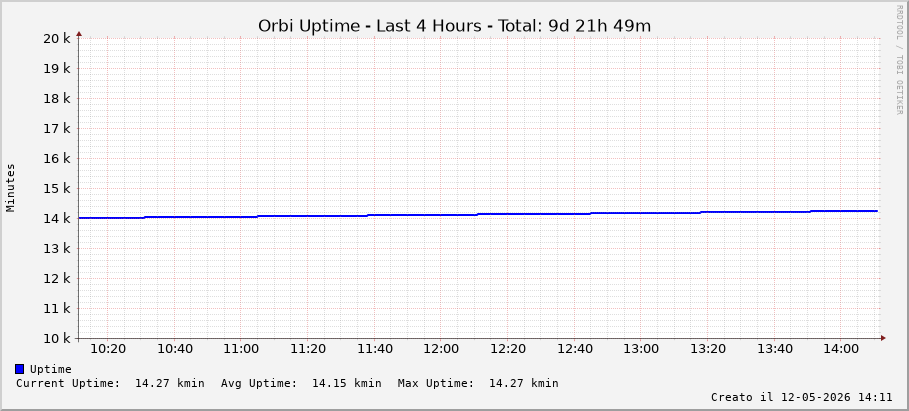
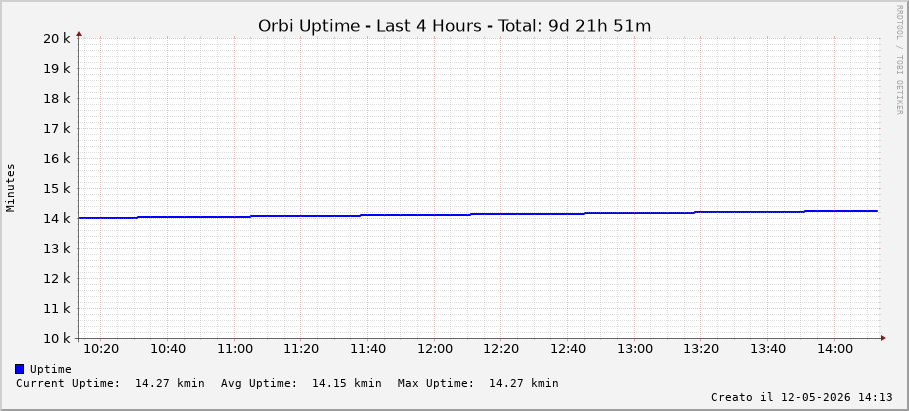
RBR50 update 2026-05-12 14:14:02

diff --git a/index.html b/index.html
@@ -41,38 +41,38 @@
 
 <div class="graph-container">
     <h2>Ultime 4 Ore</h2>
-    <img class="graph" src="images/orbi_traffic_1h.png?v=1778587921" alt="Traffico Ultima Ora">
-    <img class="graph" src="images/orbi_uptime_1h.png?v=1778587921" alt="Uptime Ultima Ora">
+    <img class="graph" src="images/orbi_traffic_1h.png?v=1778588042" alt="Traffico Ultima Ora">
+    <img class="graph" src="images/orbi_uptime_1h.png?v=1778588042" alt="Uptime Ultima Ora">
 </div>
 
 <div class="graph-container">
     <h2>Ultimo Giorno</h2>
-    <img class="graph" src="images/orbi_traffic_1d.png?v=1778587921" alt="Traffico Ultimo Giorno">
-    <img class="graph" src="images/orbi_uptime_1d.png?v=1778587921" alt="Uptime Ultimo Giorno">
+    <img class="graph" src="images/orbi_traffic_1d.png?v=1778588042" alt="Traffico Ultimo Giorno">
+    <img class="graph" src="images/orbi_uptime_1d.png?v=1778588042" alt="Uptime Ultimo Giorno">
 </div>
 
 <div class="graph-container">
     <h2>Ultima Settimana</h2>
-    <img class="graph" src="images/orbi_traffic_1w.png?v=1778587921" alt="Traffico Ultima Settimana">
-    <img class="graph" src="images/orbi_uptime_1w.png?v=1778587921" alt="Uptime Ultima Settimana">
+    <img class="graph" src="images/orbi_traffic_1w.png?v=1778588042" alt="Traffico Ultima Settimana">
+    <img class="graph" src="images/orbi_uptime_1w.png?v=1778588042" alt="Uptime Ultima Settimana">
 </div>
 
 <div class="graph-container">
     <h2>Ultimo Mese</h2>
-    <img class="graph" src="images/orbi_traffic_1m.png?v=1778587921" alt="Traffico Ultimo Mese">
-    <img class="graph" src="images/orbi_uptime_1m.png?v=1778587921" alt="Uptime Ultimo Mese">
+    <img class="graph" src="images/orbi_traffic_1m.png?v=1778588042" alt="Traffico Ultimo Mese">
+    <img class="graph" src="images/orbi_uptime_1m.png?v=1778588042" alt="Uptime Ultimo Mese">
 </div>
 
 <div class="graph-container">
     <h2>Ultimo Anno</h2>
-    <img class="graph" src="images/orbi_traffic_1y.png?v=1778587921" alt="Traffico Ultimo Anno">
-    <img class="graph" src="images/orbi_uptime_1y.png?v=1778587921" alt="Uptime Ultimo Anno">
+    <img class="graph" src="images/orbi_traffic_1y.png?v=1778588042" alt="Traffico Ultimo Anno">
+    <img class="graph" src="images/orbi_uptime_1y.png?v=1778588042" alt="Uptime Ultimo Anno">
 </div>
 
 <div class="graph-container">
     <h2>Ultimi 5 Anni</h2>
-    <img class="graph" src="images/orbi_traffic_5y.png?v=1778587921" alt="Traffico Ultimi 5 Anni">
-    <img class="graph" src="images/orbi_uptime_5y.png?v=1778587921" alt="Uptime Ultimi 5 Anni">
+    <img class="graph" src="images/orbi_traffic_5y.png?v=1778588042" alt="Traffico Ultimi 5 Anni">
+    <img class="graph" src="images/orbi_uptime_5y.png?v=1778588042" alt="Uptime Ultimi 5 Anni">
 </div>
 
 <div class="footer">
